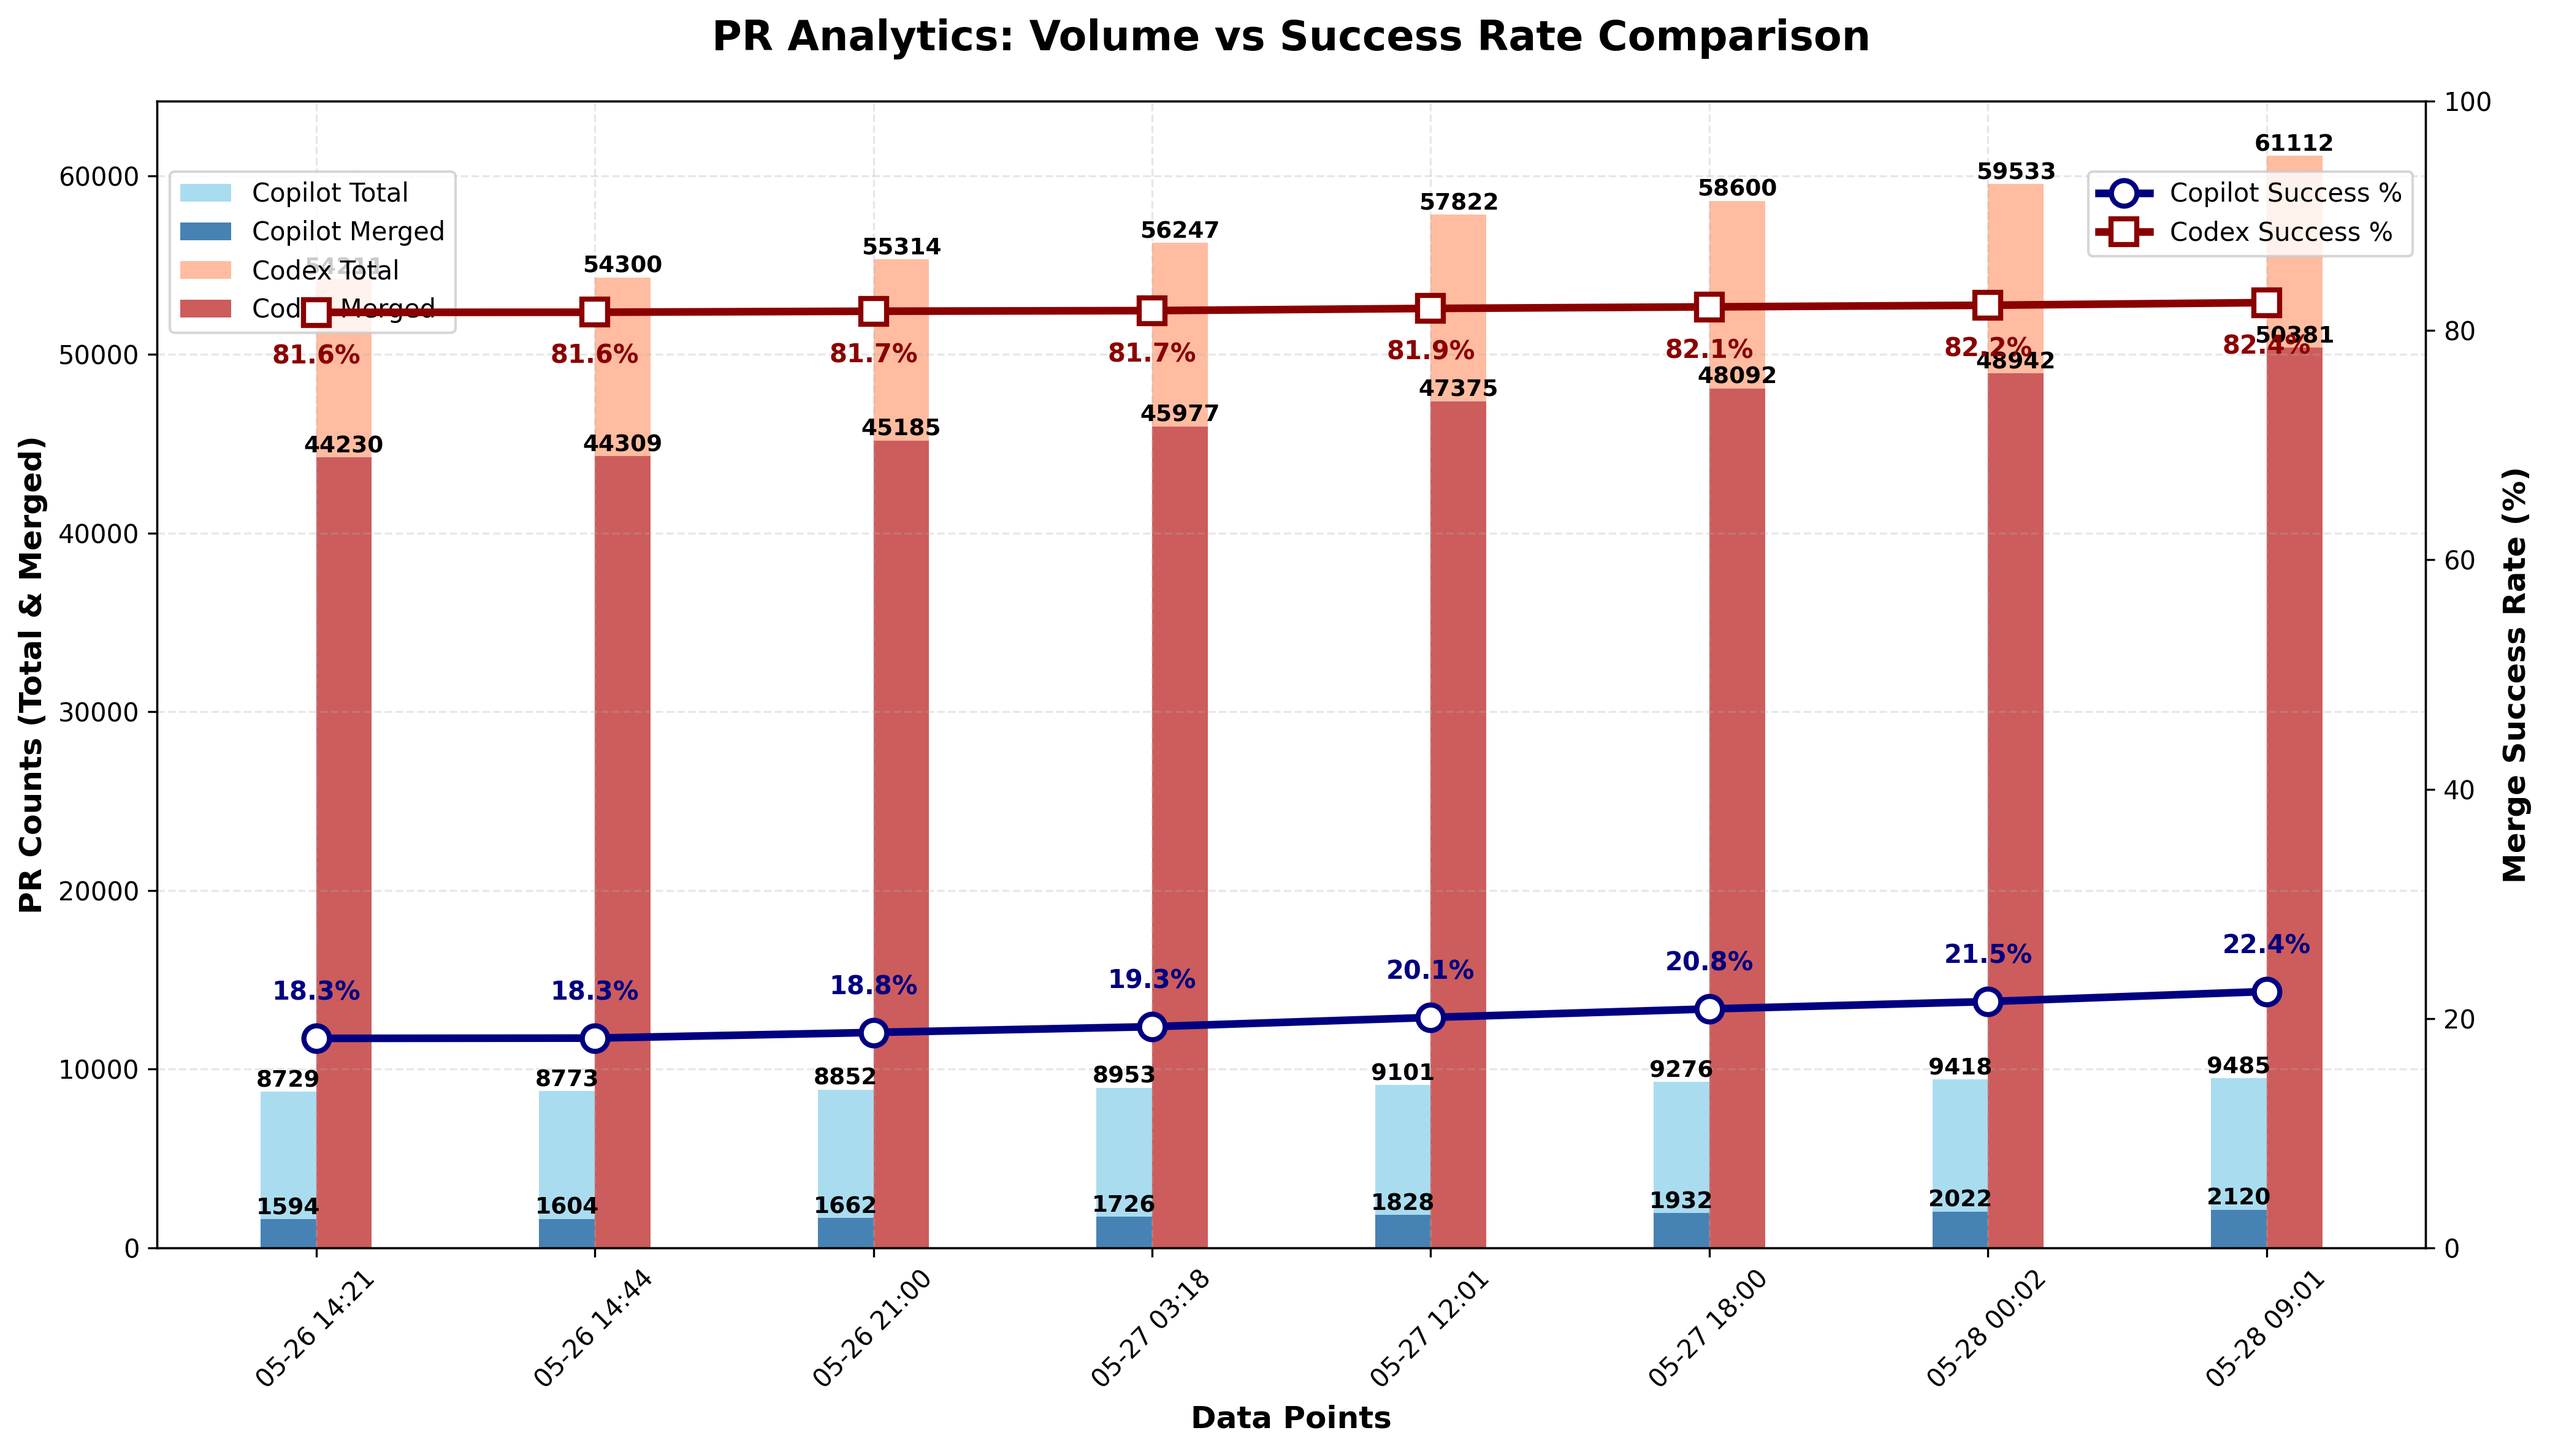
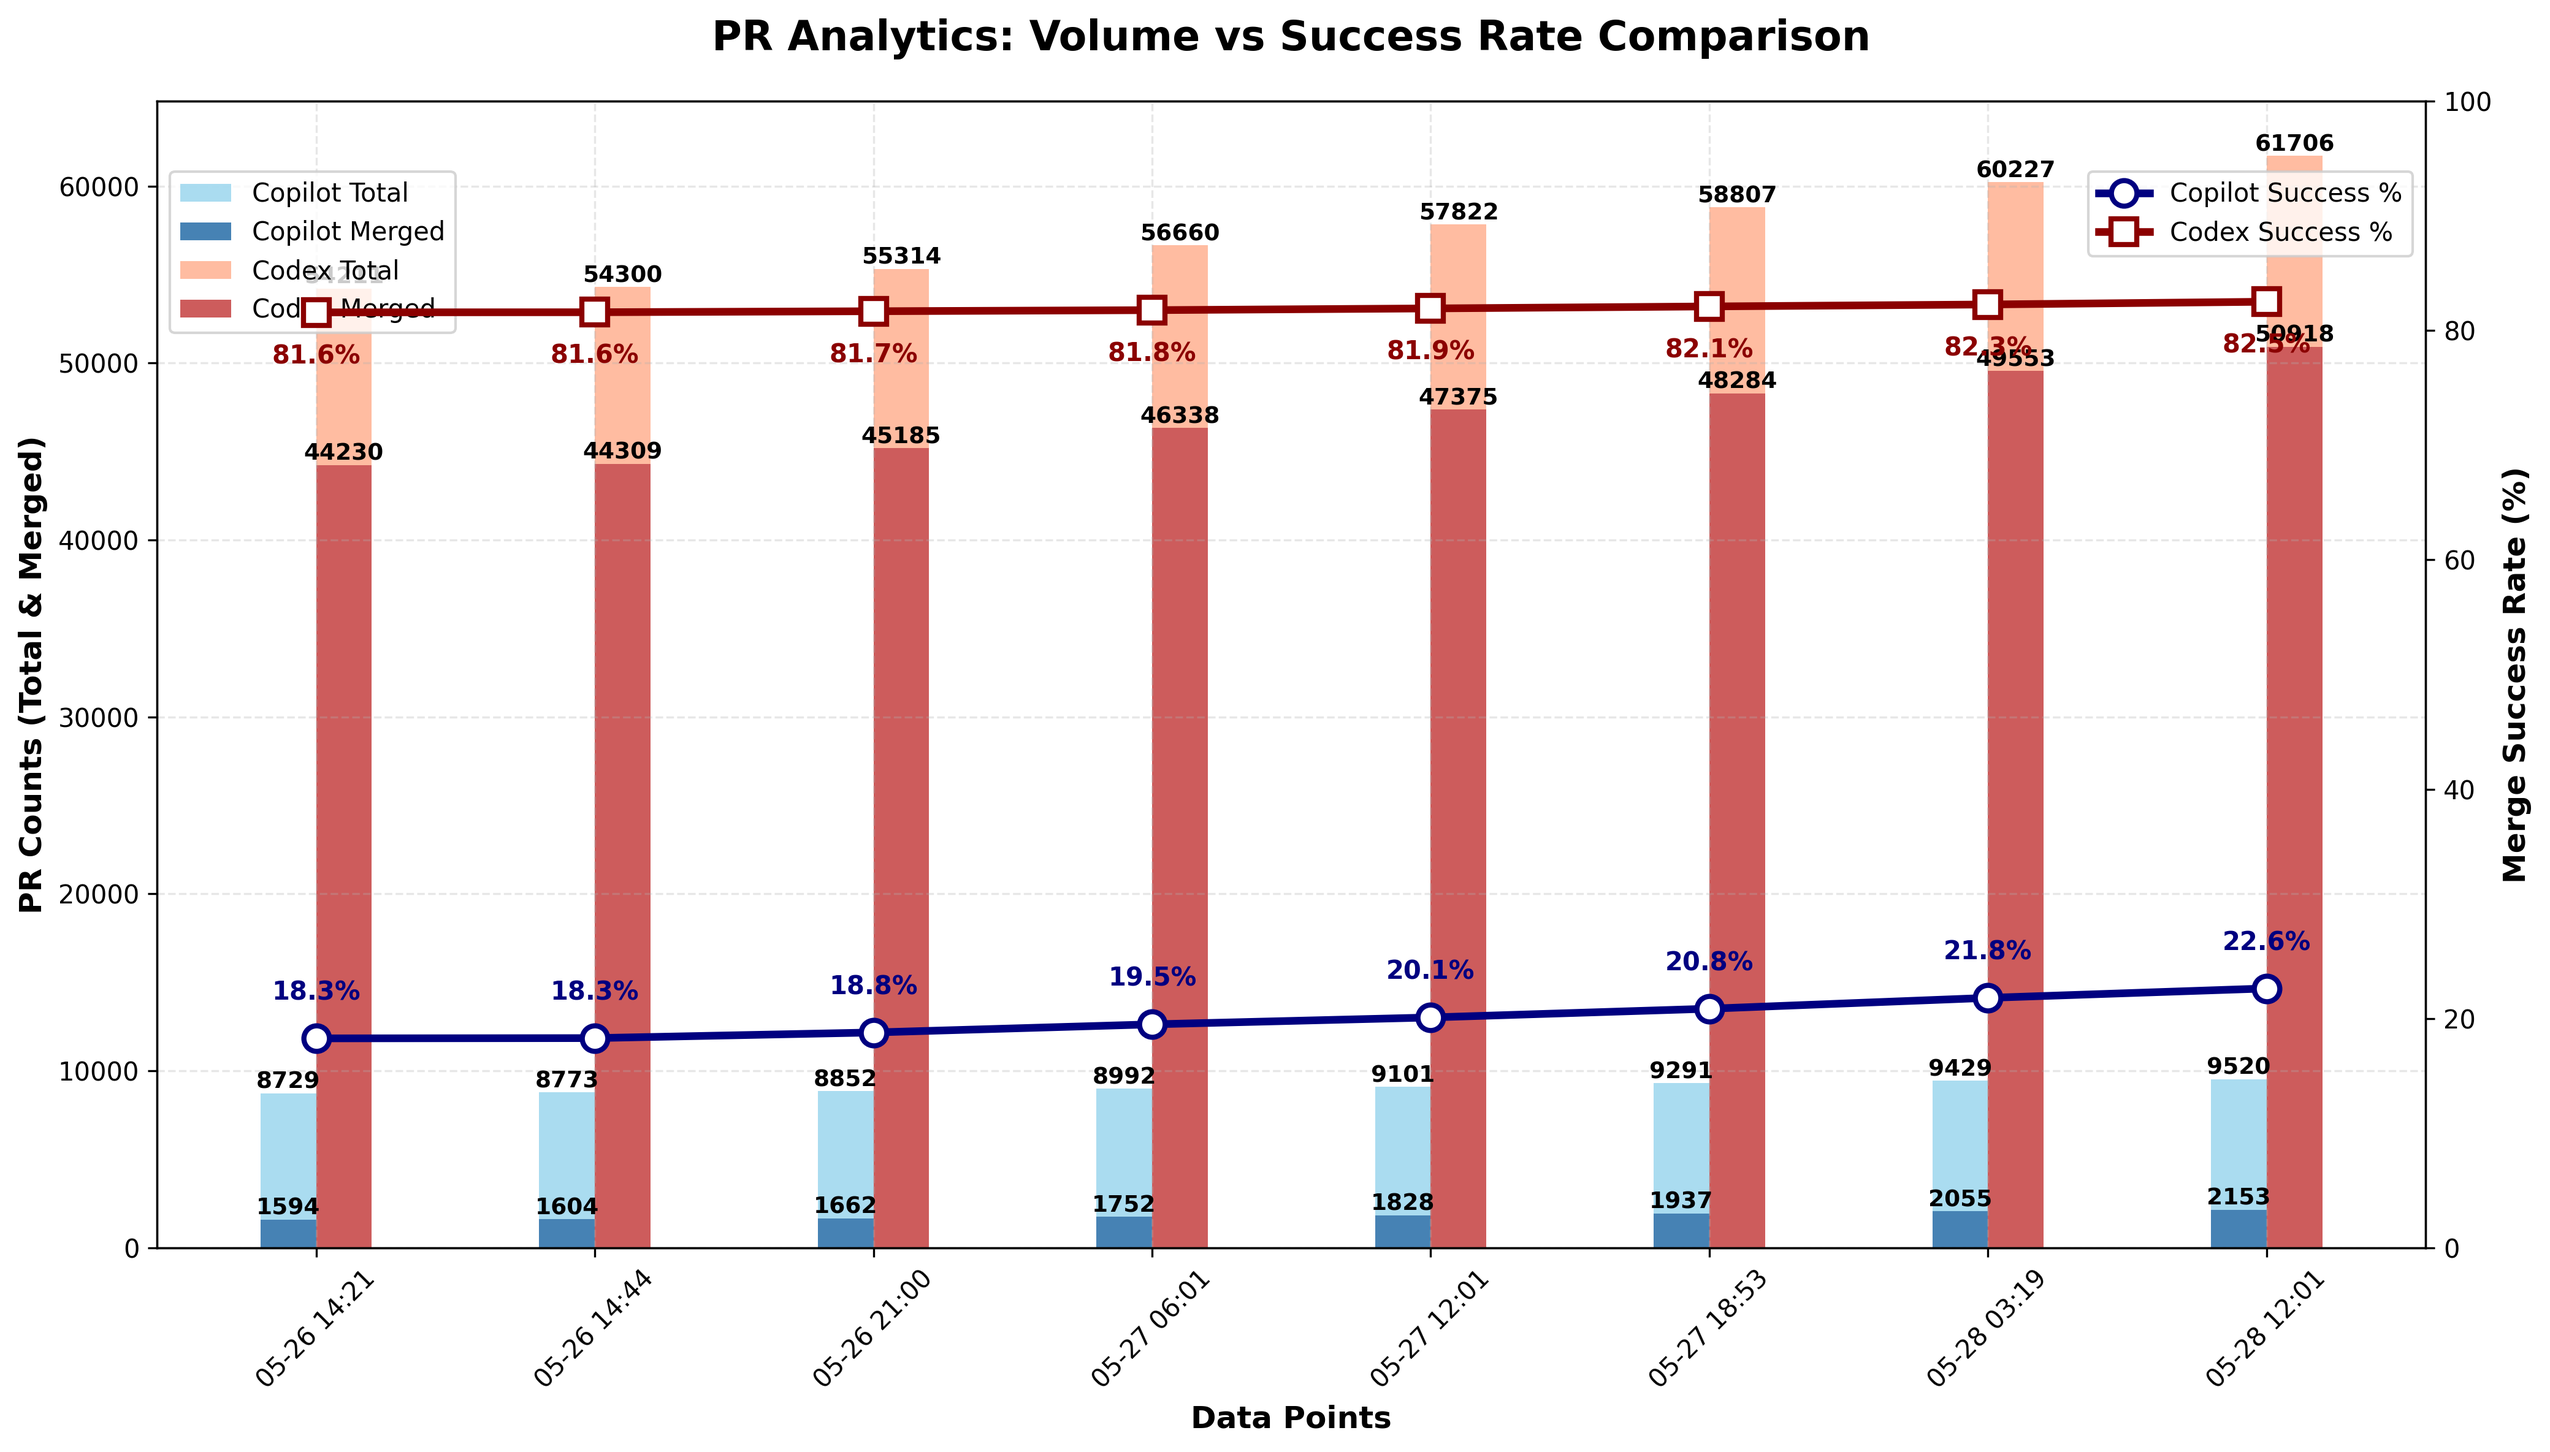
chore: update PR‑approval chart

diff --git a/docs/index.html b/docs/index.html
@@ -44,22 +44,22 @@
                 <tbody>
                     <tr>
                         <td>Copilot</td>
-                        <td>9,485</td>
-                        <td>2,120</td>
-                        <td>22.35%</td>
+                        <td>9,520</td>
+                        <td>2,153</td>
+                        <td>22.62%</td>
                     </tr>
                     <tr>
                         <td>Codex</td>
-                        <td>61,112</td>
-                        <td>50,381</td>
-                        <td>82.44%</td>
+                        <td>61,706</td>
+                        <td>50,918</td>
+                        <td>82.52%</td>
                     </tr>
                 </tbody>
             </table>
         </section>
 
         <footer>
-            <p>Last updated: <span id="last-updated">May 28, 2025 09:01 UTC</span></p>
+            <p>Last updated: <span id="last-updated">May 28, 2025 12:01 UTC</span></p>
             <p><a href="https://github.com/aavetis/ai-pr-watcher">View on GitHub</a></p>
         </footer>
     </div>

diff --git a/README.md b/README.md
@@ -19,5 +19,5 @@ Explore the GitHub search queries used:
 
 | Project | Total PRs | Merged PRs | Merge Rate |
 | ------- | --------- | ---------- | ---------- |
-| Copilot | 9,485 | 2,120 | 22.35% |
-| Codex   | 61,112 | 50,381 | 82.44% |
+| Copilot | 9,520 | 2,153 | 22.62% |
+| Codex   | 61,706 | 50,918 | 82.52% |
